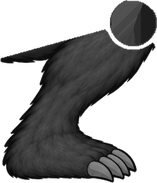
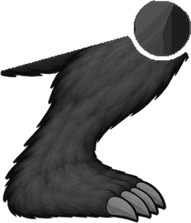
Beta: neue Figur – ganzes Bein je Stellung wie gezeichnet
Oberschenkel und Unterschenkel mit Fuss aus derselben Figur von side_squats.png, ohne
Längenanpassung; Knie bei festem Fuss wie gezeichnet; Unterschenkel springt statt überblendet
(nie zwei Füsse), fester Punkt am Knöchel der sichtbaren Zeichnung.

Claude-Session: https://claude.ai/code/session_01RzgDZiCUCCWMjrRSUqxzer

diff --git a/beta/sloth-rig.js b/beta/sloth-rig.js
@@ -18,7 +18,7 @@ const slothPartHref = (im) => (im.startsWith('v2') ? SLOTH_RIG2_BASE : SLOTH_RIG
 const SLOTH_PARTS = {"front_head":[510,53,696,293],"front_torso":[456,248,745,582],"front_uarm_l":[296,251,478,388],"front_uarm_r":[723,251,904,388],"front_farm_l":[51,288,294,400],"front_farm_r":[907,288,1150,400],"front_thigh_l":[439,516,582,697],"front_thigh_r":[629,516,773,697],"front_tail":[566,584,643,725],"front_calf_l":[444,678,569,866],"front_calf_r":[643,679,768,866],"back_head":[510,53,696,293],"back_torso":[455,247,745,622],"back_uarm_l":[300,251,478,388],"back_uarm_r":[723,251,900,388],"back_farm_l":[163,288,294,396],"back_farm_r":[906,288,1039,396],"back_elbow_l":[267,315,319,367],"back_elbow_r":[881,314,934,367],"back_grip_l":[195,606,314,813],"back_grip_r":[899,606,1018,813],"back_thigh_l":[439,567,571,697],"back_thigh_r":[641,562,773,697],"back_tail":[566,619,643,741],"back_calf_l":[444,678,569,866],"back_calf_r":[643,678,768,866],"pose_russian_a":[209,33,499,221],"pose_russian_b":[679,29,968,221],"pose_ninety":[339,246,498,434],"pose_frog_a":[252,454,543,618],"pose_frog_b":[697,485,1018,614],"pose_extrot_a":[405,634,537,875],"pose_extrot_b":[633,634,817,876],"eq_plate":[570,40,688,159],"eq_kettlebell":[870,40,962,159],"eq_dumbbell":[184,51,365,151],"eq_dhandle":[178,193,273,328],"eq_rope":[515,183,622,331],"eq_ring":[866,182,955,336],"eq_barend":[66,379,285,434],"eq_bench":[326,418,558,499],"eq_incline":[604,353,821,499],"eq_decline":[887,404,1118,499],"eq_cable":[92,506,252,840],"eq_dipstation":[436,631,630,840],"eq_rack":[890,553,1108,840],"eq_latpull":[68,33,226,248],"eq_legpress":[312,68,575,239],"eq_legext":[657,67,851,241],"eq_legcurl":[917,67,1143,241],"eq_butterfly":[69,324,232,543],"eq_abduction":[362,329,510,543],"eq_calfseated":[657,417,844,543],"eq_calfstanding":[931,326,1134,541],"eq_hyperext":[71,688,280,839],"eq_pullover":[465,604,649,840],"eq_tbar":[877,653,1112,840],"eq_abwheel":[181,58,443,250],"eq_jumprope":[776,42,989,261],"eq_ladder":[93,361,534,514],"eq_stepbox":[748,354,1035,538],"eq_band":[93,682,531,759],"eq_mat":[627,666,1152,759],"eq_stack":[303,516,390,652],"eq_calfframe":[499,491,711,666],"eq_calfpad":[807,531,920,627],"eq_dipbars":[292,735,461,819],"eq_nordic":[535,711,724,819],"eq_abductseat":[1008,654,1141,819],"eq_edge":[818,753,954,823],"front_face_neutral":[106,22,253,213],"front_face_effort":[106,22,251,213],"front_face_blink":[106,22,253,213],"front_face_yawn":[106,22,253,213],"side_face_neutral":[104,40,335,317],"side_face_effort":[103,40,334,317],"side_face_blink":[104,40,332,317],"side_torso":[458,53,699,568],"side_body":[458,220,692,568],"side_tail":[372,453,473,535],"side_uarm":[791,80,910,268],"side_uarm_far":[791,80,910,268],"side_elbow":[811,261,857,307],"side_elbow_far":[811,261,857,307],"side_farm":[770,320,959,400],"side_farm_far":[770,320,959,400],"side_hand":[990,449,1166,539],"side_hand_far":[990,449,1166,539],"side_thigh":[629,516,773,687],"side_thigh_far":[629,516,773,687],"side_knee":[721,652,768,700],"side_knee_far":[721,652,768,700],"side_calf":[1020,689,1180,854],"side_calf_far":[1020,689,1180,854],"side_shin":[1020,689,1122,793],"side_shin_far":[1020,689,1122,793],"side_fist":[59,109,404,284],"side_fist_far":[59,109,404,284],"side_foot":[152,622,370,804],"side_foot_far":[152,622,370,804],"side_flat":[624,706,893,825],"side_flat_far":[624,706,893,825]};
 /* PARTS:END */
 /* V2:BEGIN */
-const SLOTH_V2 = {"parts":{"v2front_torso":[149,183,351,481],"v2front_head":[173,15,331,198],"v2front_uarm_l":[86,206,200,366],"v2front_farm_l":[12,322,139,516],"v2front_farmfist_l":[16,322,138,468],"v2front_thigh_l":[142,400,251,584],"v2front_calf_l":[80,546,224,758],"v2front_uarm_r":[300,206,418,364],"v2front_farm_r":[365,322,497,516],"v2front_farmfist_r":[370,322,494,468],"v2front_thigh_r":[252,400,365,584],"v2front_calf_r":[284,546,428,758],"v2back_torso":[149,182,351,466],"v2back_head":[174,12,338,201],"v2back_uarm_l":[79,204,201,371],"v2back_farm_l":[30,326,142,440],"v2back_grip_l":[12,412,86,518],"v2back_thigh_l":[143,398,252,586],"v2back_calf_l":[78,546,224,753],"v2back_uarm_r":[300,204,429,367],"v2back_farm_r":[370,326,478,438],"v2back_grip_r":[426,412,499,518],"v2back_thigh_r":[250,397,370,585],"v2back_calf_r":[285,546,430,753],"v2hang_torso":[164,216,346,464],"v2hang_head":[196,120,317,263],"v2hang_uarm_l":[126,136,213,334],"v2hang_farm_l":[122,50,192,164],"v2hang_grip_l":[120,13,198,74],"v2hang_thigh_l":[152,400,261,581],"v2hang_calf_l":[136,540,235,754],"v2hang_uarm_r":[297,136,387,348],"v2hang_farm_r":[321,52,391,164],"v2hang_grip_r":[316,13,392,74],"v2hang_thigh_r":[250,400,360,582],"v2hang_calf_r":[277,540,376,754],"v2sit_torso":[153,184,361,403],"v2sit_head":[176,22,337,196],"v2sit_uarm_l":[78,215,181,389],"v2sit_farm_l":[49,352,150,539],"v2sit_thigh_l":[136,377,258,491],"v2sit_calf_l":[100,453,244,750],"v2sit_uarm_r":[330,216,435,389],"v2sit_farm_r":[362,352,464,539],"v2sit_thigh_r":[254,377,376,489],"v2sit_calf_r":[268,453,412,750],"v2side_torso":[30,238,263,592],"v2side_face":[92,11,254,191],"v2side_uarm":[157,180,325,270],"v2side_farm":[296,184,442,266],"v2side_hand":[422,190,496,238],"v2side_fist":[296,184,496,266],"v2side_flat":[422,190,496,238],"v2side_uarm_far":[157,180,325,270],"v2side_farm_far":[296,184,442,266],"v2side_hand_far":[422,190,496,238],"v2side_fist_far":[296,184,496,266],"v2side_flat_far":[422,190,496,238],"v2side_thigh":[89,510,229,718],"v2side_thigh_far":[89,510,229,718],"v2side_calf":[111,698,266,935],"v2side_calf_far":[111,698,266,935],"v2side_shin":[111,698,214,928],"v2side_shin_far":[111,698,214,928],"v2side_foot":[134,846,266,934],"v2side_foot_far":[134,846,266,934],"v2side_thighA":[390,522,572,704],"v2side_thighA_far":[390,522,572,704],"v2side_calfA":[412,637,561,869],"v2side_calfA_far":[412,637,561,869],"v2side_shinA":[412,637,561,859],"v2side_shinA_far":[412,637,561,859],"v2side_thighB":[711,581,949,748],"v2side_thighB_far":[711,581,949,748],"v2side_calfB":[702,628,857,846],"v2side_calfB_far":[702,628,857,846],"v2side_shinB":[702,628,857,823],"v2side_shinB_far":[702,628,857,823],"v2side_thighC":[1032,611,1314,751],"v2side_thighC_far":[1032,611,1314,751],"v2side_calfC":[903,553,1060,736],"v2side_calfC_far":[903,553,1060,736],"v2side_shinC":[903,553,1060,720],"v2side_shinC_far":[903,553,1060,720]},"joints":{"front":{"torso":[[250.0,445.0],[250.0,185.0]],"head":[[250.0,185.0],[250.0,20.0]],"farm_l":[[102.5,345.0],[40.0,495.0]],"uarm_l":[[165.0,240.0],[102.5,345.0]],"thigh_l":[[210.0,445.0],[180.0,575.0]],"calf_l":[[180.0,575.0],[155.0,695.0]],"farm_r":[[397.5,345.0],[462.5,495.0]],"uarm_r":[[335.0,240.0],[397.5,345.0]],"thigh_r":[[290.0,445.0],[320.0,575.0]],"calf_r":[[320.0,575.0],[345.0,695.0]]},"back":{"torso":[[250.0,445.0],[250.0,190.0]],"head":[[250.0,190.0],[250.0,15.0]],"grip_l":[[57.5,430.0],[42.5,500.0]],"farm_l":[[102.5,350.0],[57.5,430.0]],"uarm_l":[[165.0,240.0],[102.5,350.0]],"thigh_l":[[210.0,445.0],[180.0,575.0]],"calf_l":[[180.0,575.0],[155.0,695.0]],"grip_r":[[445.0,430.0],[465.0,500.0]],"farm_r":[[400.0,350.0],[445.0,430.0]],"uarm_r":[[335.0,240.0],[400.0,350.0]],"thigh_r":[[290.0,445.0],[325.0,575.0]],"calf_r":[[325.0,575.0],[350.0,695.0]]},"hang":{"torso":[[255.0,465.0],[255.0,235.0]],"head":[[255.0,235.0],[255.0,120.0]],"grip_l":[[152.5,55.0],[157.5,25.0]],"farm_l":[[150.0,140.0],[152.5,55.0]],"uarm_l":[[177.5,255.0],[150.0,140.0]],"thigh_l":[[222.5,465.0],[187.5,570.0]],"calf_l":[[187.5,570.0],[172.5,700.0]],"grip_r":[[355.0,55.0],[352.5,25.0]],"farm_r":[[357.5,140.0],[355.0,55.0]],"uarm_r":[[332.5,255.0],[357.5,140.0]],"thigh_r":[[287.5,465.0],[322.5,570.0]],"calf_r":[[322.5,570.0],[340.0,700.0]]},"sit":{"torso":[[255.0,415.0],[255.0,190.0]],"head":[[255.0,190.0],[255.0,25.0]],"farm_l":[[105.0,375.0],[75.0,525.0]],"uarm_l":[[145.0,257.5],[105.0,375.0]],"thigh_l":[[190.0,415.0],[192.5,482.5]],"calf_l":[[192.5,482.5],[169.0,660.0]],"farm_r":[[405.0,375.0],[435.0,525.0]],"uarm_r":[[365.0,257.5],[405.0,375.0]],"thigh_r":[[320.0,415.0],[320.0,482.5]],"calf_r":[[320.0,482.5],[340.0,660.0]]},"side":{"torso":[[159.2,546.0],[163.8,327.6]],"face":[[200.0,170.0],[165.0,30.0]],"flex":{"thigh":4.9,"thighA":51.0,"thighB":82.6,"thighC":100.2},"kneeBend":{"thigh":7.6,"thighA":69.5,"thighB":103.1,"thighC":125.3},"thighA":[[418.3,569.6],[520.7,669.3]],"calfA":[[517.1,664.7],[459.6,795.5]],"shinA":[[517.1,664.7],[459.6,795.5]],"thighB":[[755.8,653.2],[886.4,711.0]],"calfB":[[815.7,654.2],[729.8,768.4]],"shinB":[[815.7,654.2],[729.8,768.4]],"thighC":[[1126.1,674.5],[1265.9,703.8]],"calfC":[[1035.7,575.8],[931.0,673.0]],"shinC":[[1035.7,575.8],[931.0,673.0]],"uarm":[[200.0,222.5],[320.0,225.0]],"farm":[[320.0,225.0],[440.0,212.5]],"fist":[[320.0,225.0],[440.0,212.5]],"hand":[[440.0,212.5],[492.5,215.0]],"flat":[[440.0,212.5],[492.5,215.0]],"thigh":[[158.4,570.3],[167.7,712.8]],"calf":[[171.1,727.0],[161.6,869.6]],"shin":[[171.1,727.0],[161.6,869.6]],"foot":[[161.6,869.6],[254.7,914.2]]}},"anchors":{"front":{"neck":[250.0,185.0],"sh_l":[165.0,240.0],"sh_r":[335.0,240.0],"hip_l":[210.0,445.0],"hip_r":[290.0,445.0],"tail":[250.0,445.0]},"back":{"neck":[250.0,190.0],"sh_l":[165.0,240.0],"sh_r":[335.0,240.0],"hip_l":[210.0,445.0],"hip_r":[290.0,445.0],"tail":[250.0,445.0]},"hang":{"neck":[255.0,235.0],"sh_l":[177.5,255.0],"sh_r":[332.5,255.0],"hip_l":[222.5,465.0],"hip_r":[287.5,465.0],"tail":[255.0,465.0]},"sit":{"neck":[255.0,190.0],"sh_l":[145.0,257.5],"sh_r":[365.0,257.5],"hip_l":[190.0,415.0],"hip_r":[320.0,415.0],"tail":[255.0,415.0]},"side":{"shoulder":[163.8,327.6],"hip":[159.2,546.0],"tail":[54.6,591.5],"face":[186.6,265.7]}}};
+const SLOTH_V2 = {"parts":{"v2front_torso":[149,183,351,481],"v2front_head":[173,15,331,198],"v2front_uarm_l":[86,206,200,366],"v2front_farm_l":[12,322,139,516],"v2front_farmfist_l":[16,322,138,468],"v2front_thigh_l":[142,400,251,584],"v2front_calf_l":[80,546,224,758],"v2front_uarm_r":[300,206,418,364],"v2front_farm_r":[365,322,497,516],"v2front_farmfist_r":[370,322,494,468],"v2front_thigh_r":[252,400,365,584],"v2front_calf_r":[284,546,428,758],"v2back_torso":[149,182,351,466],"v2back_head":[174,12,338,201],"v2back_uarm_l":[79,204,201,371],"v2back_farm_l":[30,326,142,440],"v2back_grip_l":[12,412,86,518],"v2back_thigh_l":[143,398,252,586],"v2back_calf_l":[78,546,224,753],"v2back_uarm_r":[300,204,429,367],"v2back_farm_r":[370,326,478,438],"v2back_grip_r":[426,412,499,518],"v2back_thigh_r":[250,397,370,585],"v2back_calf_r":[285,546,430,753],"v2hang_torso":[164,216,346,464],"v2hang_head":[196,120,317,263],"v2hang_uarm_l":[126,136,213,334],"v2hang_farm_l":[122,50,192,164],"v2hang_grip_l":[120,13,198,74],"v2hang_thigh_l":[152,400,261,581],"v2hang_calf_l":[136,540,235,754],"v2hang_uarm_r":[297,136,387,348],"v2hang_farm_r":[321,52,391,164],"v2hang_grip_r":[316,13,392,74],"v2hang_thigh_r":[250,400,360,582],"v2hang_calf_r":[277,540,376,754],"v2sit_torso":[153,184,361,403],"v2sit_head":[176,22,337,196],"v2sit_uarm_l":[78,215,181,389],"v2sit_farm_l":[49,352,150,539],"v2sit_thigh_l":[136,377,258,491],"v2sit_calf_l":[100,453,244,750],"v2sit_uarm_r":[330,216,435,389],"v2sit_farm_r":[362,352,464,539],"v2sit_thigh_r":[254,377,376,489],"v2sit_calf_r":[268,453,412,750],"v2side_torso":[30,238,263,592],"v2side_face":[92,11,254,191],"v2side_uarm":[157,180,325,270],"v2side_farm":[296,184,442,266],"v2side_hand":[422,190,496,238],"v2side_fist":[296,184,496,266],"v2side_flat":[422,190,496,238],"v2side_uarm_far":[157,180,325,270],"v2side_farm_far":[296,184,442,266],"v2side_hand_far":[422,190,496,238],"v2side_fist_far":[296,184,496,266],"v2side_flat_far":[422,190,496,238],"v2side_thigh":[86,498,222,701],"v2side_thigh_far":[86,498,222,701],"v2side_calf":[106,668,254,895],"v2side_calf_far":[106,668,254,895],"v2side_shin":[106,668,204,888],"v2side_shin_far":[106,668,204,888],"v2side_foot":[128,810,254,895],"v2side_foot_far":[128,810,254,895],"v2side_thighA":[399,534,585,721],"v2side_thighA_far":[399,534,585,721],"v2side_calfA":[424,656,578,895],"v2side_calfA_far":[424,656,578,895],"v2side_shinA":[424,656,578,884],"v2side_shinA_far":[424,656,578,884],"v2side_thighB":[693,567,925,730],"v2side_thighB_far":[693,567,925,730],"v2side_calfB":[744,665,908,896],"v2side_calfB_far":[744,665,908,896],"v2side_shinB":[744,665,908,872],"v2side_shinB_far":[744,665,908,872],"v2side_thighC":[1027,609,1307,748],"v2side_thighC_far":[1027,609,1307,748],"v2side_calfC":[1098,673,1289,896],"v2side_calfC_far":[1098,673,1289,896],"v2side_shinC":[1098,673,1289,876],"v2side_shinC_far":[1098,673,1289,876]},"joints":{"front":{"torso":[[250.0,445.0],[250.0,185.0]],"head":[[250.0,185.0],[250.0,20.0]],"farm_l":[[102.5,345.0],[40.0,495.0]],"uarm_l":[[165.0,240.0],[102.5,345.0]],"thigh_l":[[210.0,445.0],[180.0,575.0]],"calf_l":[[180.0,575.0],[155.0,695.0]],"farm_r":[[397.5,345.0],[462.5,495.0]],"uarm_r":[[335.0,240.0],[397.5,345.0]],"thigh_r":[[290.0,445.0],[320.0,575.0]],"calf_r":[[320.0,575.0],[345.0,695.0]]},"back":{"torso":[[250.0,445.0],[250.0,190.0]],"head":[[250.0,190.0],[250.0,15.0]],"grip_l":[[57.5,430.0],[42.5,500.0]],"farm_l":[[102.5,350.0],[57.5,430.0]],"uarm_l":[[165.0,240.0],[102.5,350.0]],"thigh_l":[[210.0,445.0],[180.0,575.0]],"calf_l":[[180.0,575.0],[155.0,695.0]],"grip_r":[[445.0,430.0],[465.0,500.0]],"farm_r":[[400.0,350.0],[445.0,430.0]],"uarm_r":[[335.0,240.0],[400.0,350.0]],"thigh_r":[[290.0,445.0],[325.0,575.0]],"calf_r":[[325.0,575.0],[350.0,695.0]]},"hang":{"torso":[[255.0,465.0],[255.0,235.0]],"head":[[255.0,235.0],[255.0,120.0]],"grip_l":[[152.5,55.0],[157.5,25.0]],"farm_l":[[150.0,140.0],[152.5,55.0]],"uarm_l":[[177.5,255.0],[150.0,140.0]],"thigh_l":[[222.5,465.0],[187.5,570.0]],"calf_l":[[187.5,570.0],[172.5,700.0]],"grip_r":[[355.0,55.0],[352.5,25.0]],"farm_r":[[357.5,140.0],[355.0,55.0]],"uarm_r":[[332.5,255.0],[357.5,140.0]],"thigh_r":[[287.5,465.0],[322.5,570.0]],"calf_r":[[322.5,570.0],[340.0,700.0]]},"sit":{"torso":[[255.0,415.0],[255.0,190.0]],"head":[[255.0,190.0],[255.0,25.0]],"farm_l":[[105.0,375.0],[75.0,525.0]],"uarm_l":[[145.0,257.5],[105.0,375.0]],"thigh_l":[[190.0,415.0],[192.5,482.5]],"calf_l":[[192.5,482.5],[169.0,660.0]],"farm_r":[[405.0,375.0],[435.0,525.0]],"uarm_r":[[365.0,257.5],[405.0,375.0]],"thigh_r":[[320.0,415.0],[320.0,482.5]],"calf_r":[[320.0,482.5],[340.0,660.0]]},"side":{"torso":[[159.2,546.0],[163.8,327.6]],"face":[[200.0,170.0],[165.0,30.0]],"flex":{"thigh":4.9,"thighA":51.0,"thighB":82.6,"thighC":100.2},"kneeBend":{"thigh":7.6,"thighA":69.5,"thighB":103.1,"thighC":125.3},"thighA":[[427.7,582.4],[532.4,684.3]],"calfA":[[532.4,684.3],[473.2,819.0]],"shinA":[[532.4,684.3],[473.2,819.0]],"thighB":[[737.1,637.0],[864.5,693.4]],"calfB":[[864.5,693.4],[773.5,814.5]],"shinB":[[864.5,693.4],[773.5,814.5]],"thighC":[[1121.1,671.6],[1260.4,700.7]],"calfC":[[1260.4,700.7],[1133.0,819.0]],"shinC":[[1260.4,700.7],[1133.0,819.0]],"uarm":[[200.0,222.5],[320.0,225.0]],"farm":[[320.0,225.0],[440.0,212.5]],"fist":[[320.0,225.0],[440.0,212.5]],"hand":[[440.0,212.5],[492.5,215.0]],"flat":[[440.0,212.5],[492.5,215.0]],"thigh":[[154.7,556.9],[163.8,696.1]],"calf":[[163.8,696.1],[154.7,832.6]],"shin":[[163.8,696.1],[154.7,832.6]],"foot":[[154.7,832.6],[243.9,875.4]]}},"anchors":{"front":{"neck":[250.0,185.0],"sh_l":[165.0,240.0],"sh_r":[335.0,240.0],"hip_l":[210.0,445.0],"hip_r":[290.0,445.0],"tail":[250.0,445.0]},"back":{"neck":[250.0,190.0],"sh_l":[165.0,240.0],"sh_r":[335.0,240.0],"hip_l":[210.0,445.0],"hip_r":[290.0,445.0],"tail":[250.0,445.0]},"hang":{"neck":[255.0,235.0],"sh_l":[177.5,255.0],"sh_r":[332.5,255.0],"hip_l":[222.5,465.0],"hip_r":[287.5,465.0],"tail":[255.0,465.0]},"sit":{"neck":[255.0,190.0],"sh_l":[145.0,257.5],"sh_r":[365.0,257.5],"hip_l":[190.0,415.0],"hip_r":[320.0,415.0],"tail":[255.0,415.0]},"side":{"shoulder":[163.8,327.6],"hip":[159.2,546.0],"tail":[54.6,591.5],"face":[186.6,265.7]}}};
 /* V2:END */
 
 // Gelenkpunkte in Vorlagen-Koordinaten (1200 x 896): [nah, fern]
@@ -928,6 +928,7 @@ function slothRigBuild(pose, v2 = false) {
     // v2: das ganze Bein (Gesäss/Oberschenkel, Unterschenkel mit Fuss) gibt es gezeichnet stehend und in drei
     // Beugungen aus einem Blatt. Je nach Hüftbeugung (Winkel Rumpf -> Oberschenkel) wird zur passenden Zeichnung
     // übergeblendet. Alle Stellungen haben dieselben Längen.
+    const ankleV = {};
     if (sameLegs) for (const k of ['thigh_far', 'knee_far', 'calf_far', 'foot_far']) if (q[k]) q[k] = { skip: true, P: q[k].P, end: q[k].end };
     if (v2 && J.flex) for (const x of ['', '_far']) {
       const th = q['thigh' + x];
@@ -952,20 +953,25 @@ function slothRigBuild(pose, v2 = false) {
       const ca = q['calf' + x], cDeg = ca && !ca.skip ? ca.r + a0('calf') : null;
       ks.forEach((k, i) => {
         const o = op[i + 1] >= 1 ? 0 : op[i], sfx = k.slice(5); // '' | 'A' | 'B' | 'C'
-        // Unterschenkel je Stellung ohne Fuss; der Fuss ist für alle Stellungen derselbe (nie zwei Füsse)
-        if (!sfx) { th.o = o; if (!pose.feet && cDeg != null) q['calf' + x] = { ...place('shin', th.end, cDeg, 'side_shin' + x), o }; return; }
-        q[k + x] = { ...place(k, th.P, deg, 'side_' + k + x), o };
-        if (!pose.feet && cDeg != null) q['calf' + sfx + x] = { ...place('shin' + sfx, th.end, cDeg, 'side_shin' + sfx + x), o };
+        // ganzes Bein je Stellung, wie gezeichnet: Oberschenkel + Unterschenkel mit Fuss aus derselben Figur.
+        // Fuss am Boden: Knie gebeugt wie in DIESER Zeichnung (relativ zu ihrem eigenen Oberschenkel)
+        const kd = planted && J.kneeBend ? deg + J.kneeBend[k] : cDeg;
+        // Unterschenkel mit Fuss nicht überblenden (sonst zwei Füsse), sondern in der Mitte des Übergangs wechseln
+        const oc = op[i] >= 0.5 && !(op[i + 1] >= 0.5) ? 1 : 0;
+        if (!sfx) { th.o = o; if (!pose.feet && cDeg != null) q['calf' + x] = { ...place('calf', th.end, kd, 'side_calf' + x), o: oc, step: true }; return; }
+        const t2 = { ...place(k, th.P, deg, 'side_' + k + x), o };
+        q[k + x] = t2;
+        if (!pose.feet && cDeg != null) q['calf' + sfx + x] = { ...place('calf' + sfx, t2.end, kd, 'side_calf' + sfx + x), o: oc, step: true };
       });
-      if (!pose.feet && cDeg != null) {
-        // Fuss am Knöchel: auf dem Boden flach wie gezeichnet, sonst mit dem Unterschenkel mitgedreht
-        const fDeg = planted ? a0('foot') : cDeg + a0('foot') - a0('shin');
-        q['foot' + x] = place('foot', q['calf' + x].end, fDeg, 'side_foot' + x);
+      // fester Punkt (Knöchel) = Knöchel der gerade sichtbaren Zeichnung, sonst rutscht der Fuss
+      if (!pose.feet) {
+        const vis = ks.reduce((b, k, i) => (op[i] >= 0.5 ? i : b), 0), c = q['calf' + ks[vis].slice(5) + x];
+        if (c && c.end) ankleV[x] = c.end;
       }
     }
     for (const k of pose.mirror || []) q[k].k = [q[k].k, -q[k].k]; // Teil an der Knochenachse spiegeln
-    return { q, pts: { wrist: q.farm.end, ankle: q.calf.end, grip: q.hand.end, knee: q.thigh.end, elbow: q.uarm.end,
-      fwrist: q.farm_far.end, fankle: q.calf_far.end, fknee: q.thigh_far.end, fgrip: q.hand_far.end,
+    return { q, pts: { wrist: q.farm.end, ankle: ankleV[''] || q.calf.end, grip: q.hand.end, knee: q.thigh.end, elbow: q.uarm.end,
+      fwrist: q.farm_far.end, fankle: ankleV._far || q.calf_far.end, fknee: q.thigh_far.end, fgrip: q.hand_far.end,
       shoulder: t.map(A.shoulder), hip: t.map(A.hip) } };
   }
 
@@ -1047,7 +1053,7 @@ function slothRigBuild(pose, v2 = false) {
     const { q, pts } = pose1(pose.solve ? solve(s) : pose.lean ? lean(s) : s);
     // dx/dy: ganze Figur verschieben (Hüpfen, Fersen heben)
     const pin = sub(pts[pose.pin], [s.dx || 0, s.dy || 0]);
-    for (const k in q) q[k] = q[k].skip ? { skip: true } : { img: q[k].img, P: sub(q[k].P, pin), r: q[k].r, p: q[k].p, k: q[k].k, o: q[k].o };
+    for (const k in q) q[k] = q[k].skip ? { skip: true } : { img: q[k].img, P: sub(q[k].P, pin), r: q[k].r, p: q[k].p, k: q[k].k, o: q[k].o, step: q[k].step };
     const pathPt = slothPathPoint(pose);
     if (pathPt && pts[pathPt]) Object.defineProperty(q, 'path', { value: sub(pts[pathPt], pin), enumerable: false });
     // Requisiten: an einem Punkt der Figur (z. B. 'grip') oder fest im Bild ([x, y] relativ zum festen Punkt)
@@ -1185,9 +1191,15 @@ function slothRigPrepare(poseName) {
   const css = [];
   for (const key of order) {
     if (!frames[0][key] || frames[0][key].skip) continue;
-    const op = (e) => (e.o != null ? `;opacity:${+e.o.toFixed(2)}` : '');
+    // step: Deckkraft springt (kein Überblenden zwischen zwei Bildern, z. B. Unterschenkel mit Fuss -> nie zwei Füsse)
+    const stepO = frames[0][key].step;
+    const op = (e) => (e.o != null && !stepO ? `;opacity:${+e.o.toFixed(2)}` : '');
     const steps = frames.map((f, i) => `${+(i * 100 / N).toFixed(2)}%{transform:${tfCss(f[key])}${op(f[key])}}`).join('');
     css.push(`@keyframes srk-${name}-${key}{${steps}}.sr-${name} .sp-${key}{animation:srk-${name}-${key} ${pose.dur}s linear infinite;animation-delay:var(--srd,0s)}`);
+    if (stepO) {
+      const ost = frames.map((f, i) => `${+(i * 100 / N).toFixed(2)}%{opacity:${f[key].o ?? 1}}`).join('');
+      css.push(`@keyframes sro-${name}-${key}{${ost}}.sr-${name} .so-${key}{animation:sro-${name}-${key} ${pose.dur}s steps(1,end) infinite;animation-delay:var(--srd,0s)}`);
+    }
   }
   if (frames[0].tail && !frames[0].tail.skip) {
     for (let i = 1; i < calmTail.length; i++) { while (calmTail[i].r - calmTail[i - 1].r > 180) calmTail[i].r -= 360; while (calmTail[i].r - calmTail[i - 1].r < -180) calmTail[i].r += 360; }
@@ -1220,7 +1232,9 @@ function slothRigPrepare(poseName) {
     if (e.line) return `<g class="sp-${key}" transform="${tfAttr(e)}"><rect class="${e.bar ? 'sloth-rig-handle' : 'sloth-rig-cable'}" x="0" y="-3" width="1" height="6"/></g>`;
     const img = (im, cls = '') => { const b = slothPartBox(im); return `<image${cls ? ` class="${cls}"` : ''} href="${slothPartHref(im)}" x="${b[0]}" y="${b[1]}" width="${b[2] - b[0]}" height="${b[3] - b[1]}"/>`; };
     const extra = key === 'head' && /_face_neutral$/.test(e.img) ? faceLayers(e.img).map(([l, im]) => img(im, 'sf-' + l)).join('') : '';
-    return `<g class="sp-${key}${e.far ? ' sp-far' : ''}" transform="${tfAttr(e)}"${e.o != null ? ` opacity="${+e.o.toFixed(2)}"` : ''}>${img(e.img)}${extra}</g>`;
+    const oAttr = e.o != null ? ` opacity="${+e.o.toFixed(2)}"` : '';
+    if (e.step) return `<g class="sp-${key}${e.far ? ' sp-far' : ''}" transform="${tfAttr(e)}"><g class="so-${key}"${oAttr}>${img(e.img)}</g></g>`;
+    return `<g class="sp-${key}${e.far ? ' sp-far' : ''}" transform="${tfAttr(e)}"${oAttr}>${img(e.img)}${extra}</g>`;
   }).join('');
   let extra = '';
   // Bahn der Hand über einen Durchgang, nur wenn sie sich merklich bewegt

diff --git a/beta/sw.js b/beta/sw.js
@@ -1,4 +1,4 @@
-const CACHE_NAME = 'pincho-beta-v74';
+const CACHE_NAME = 'pincho-beta-v75';
 const SHELL_ASSETS = [
   './', './index.html', './styles.css', './data.js', './firebase.js', './sloth-rig.js', './app.js',
   './manifest.json', '../assets/icon-512-any.png', '../assets/icon-192-any.png', '../assets/icon-512-transparent.png', '../assets/icon-512-maskable.png', '../assets/icon-beta-192-any.png', '../assets/icon-beta-512-maskable.png',

diff --git a/tools/sloth-rig/build_v2.py b/tools/sloth-rig/build_v2.py
@@ -342,9 +342,8 @@ LEG_T, LEG_C = 157, 157  # einheitliche Länge Hüfte->Knie und Knie->Knöchel (
 
 
 def side_leg(parts, cfg, sfx=''):
-    """Ganzes Bein einer Figur aus side_squats.png: thigh<sfx> (mit Gesäss), calf<sfx> (Unterschenkel + Fuss);
-    stehend zusätzlich shin/foot einzeln. Jedes Teil wird auf die einheitliche Länge gebracht, damit beim
-    Wechsel der Stellung nichts länger oder kürzer wird (die Figuren sind leicht unterschiedlich lang gezeichnet)."""
+    """Ganzes Bein einer Figur aus side_squats.png, so wie gezeichnet: thigh<sfx> (mit Gesäss), calf<sfx>
+    (Unterschenkel + Fuss); zusätzlich shin/foot einzeln (für Übungen mit eigenem Fusswinkel)."""
     A, G, fig, alpha = figure(cfg['src'], cfg.get('xr'))
     H, W = fig.shape
     yy, xx = np.mgrid[0:H, 0:W]
@@ -392,7 +391,7 @@ def side_leg(parts, cfg, sfx=''):
             x0, y0 = round(bb[0] * f), round(bb[1] * f)
             parts[f'v2side_{key}{far}'] = [x0, y0, x0 + img.width, y0 + img.height]
         return lambda q: [round(q[0] * f, 1), round(q[1] * f, 1)]
-    fT, fC = S * SQ * LEG_T / lt, S * SQ * LEG_C / lc
+    fT = fC = S * SQ  # Massstab wie gezeichnet (alle Figuren im Blatt sind gleich gross)
     sT = cut('thigh' + sfx, Mth, fT)
     sC = cut('calf' + sfx, Mca | Mfo, fC, 'kn', 30)
     out = {'thigh' + sfx: [sT(cfg['hip']), sT(cfg['kn'])], 'calf' + sfx: [sC(cfg['kn']), sC(cfg['an'])]}
